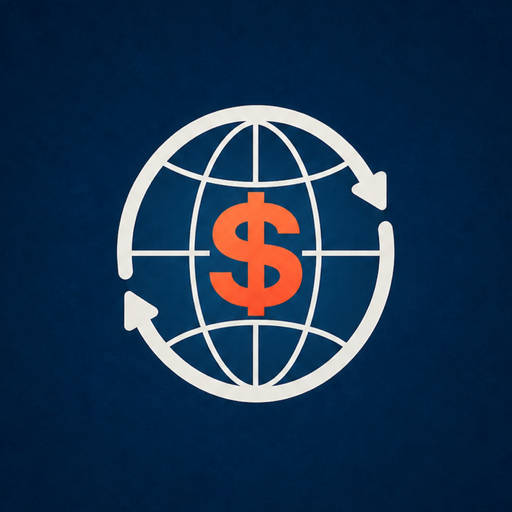
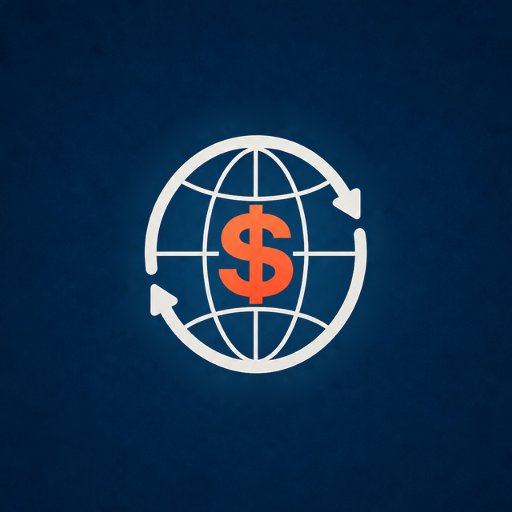
fix: reduce launcher artwork to 80 percent

Changed region(s): [[0.2188, 0.1875, 0.7812, 0.8125]]

diff --git a/design-qa.md b/design-qa.md
@@ -30,3 +30,15 @@
 No Android device or emulator is connected to this environment. The implementation cannot yet be captured at the same split-screen viewport and compared against the reference image. Install the generated APK on the reporting device and repeat the same split-screen configuration to complete the final visual check.
 
 final result: blocked
+
+## Launcher icon follow-up — 2026-08-05
+
+- Reduced only the central globe, arrows, and dollar mark to 80% of the v1.0.3 artwork size
+- Measured mark bounds changed from approximately `278 × 298px` to `222 × 239px`
+- Preserved the `512 × 512px` canvas, textured navy background, colors, line work, and center alignment
+- Regenerated legacy square and round launcher resources for mdpi through xxxhdpi from the updated master
+- Updated the README icon preview and adaptive-icon foreground from the same master
+- Android Lint and all 10 JVM unit tests pass
+- Debug APK assembly succeeds as version `1.0.4` (`versionCode 5`)
+
+launcher icon result: passed
